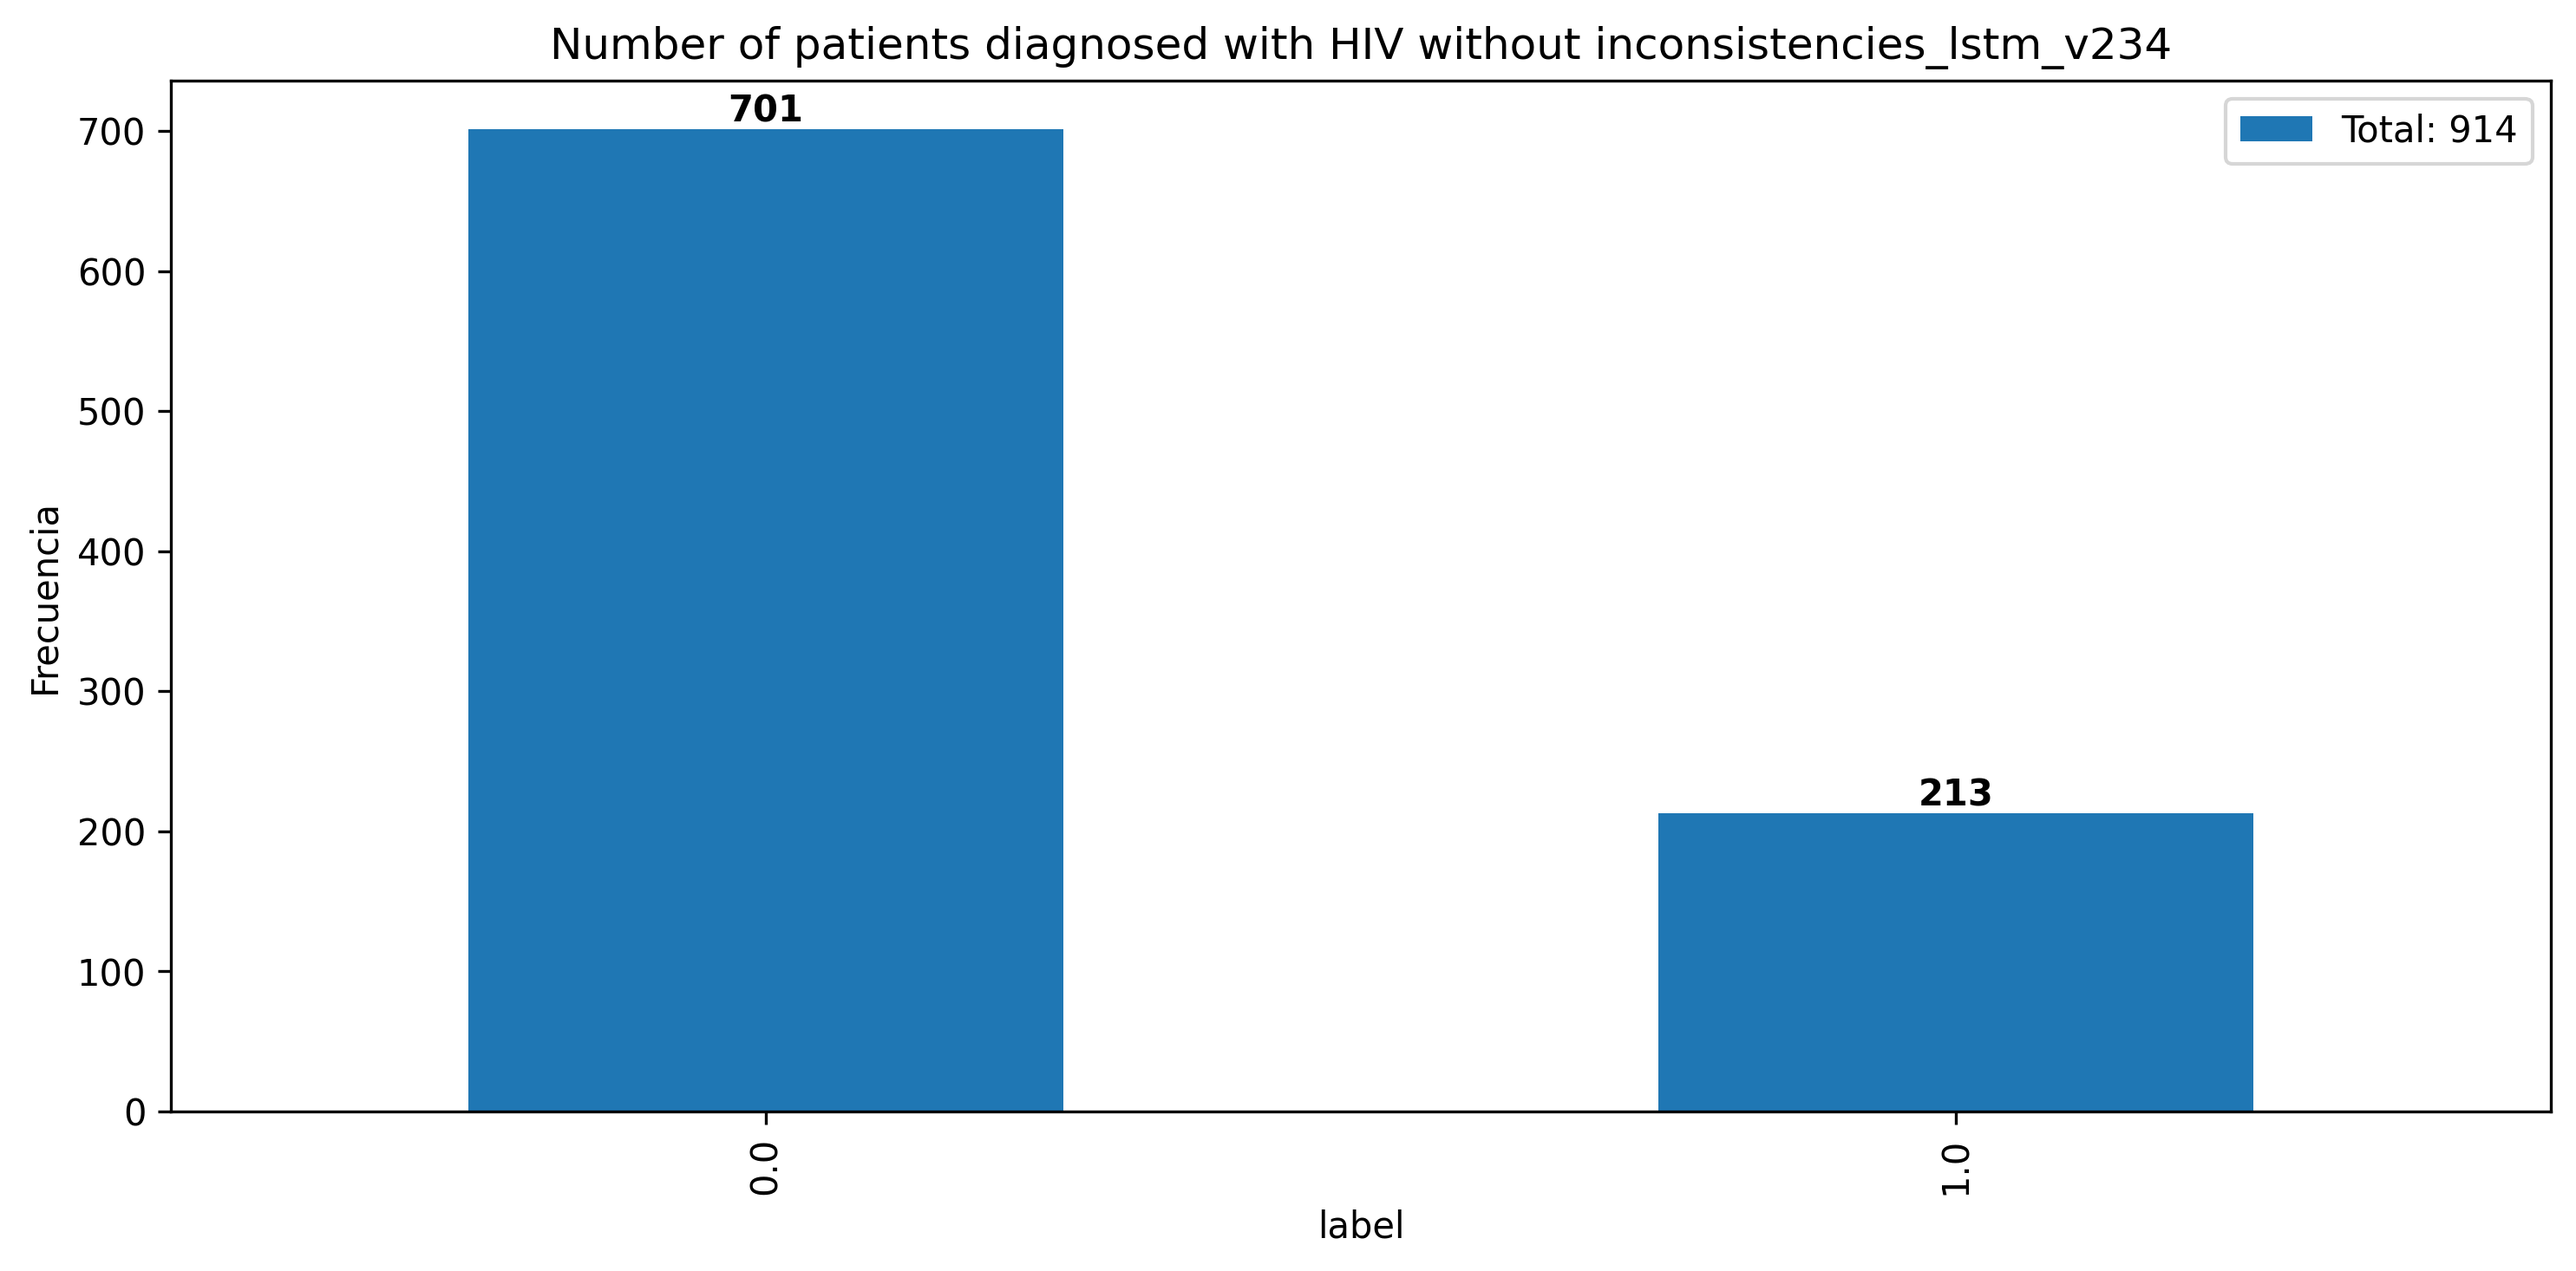
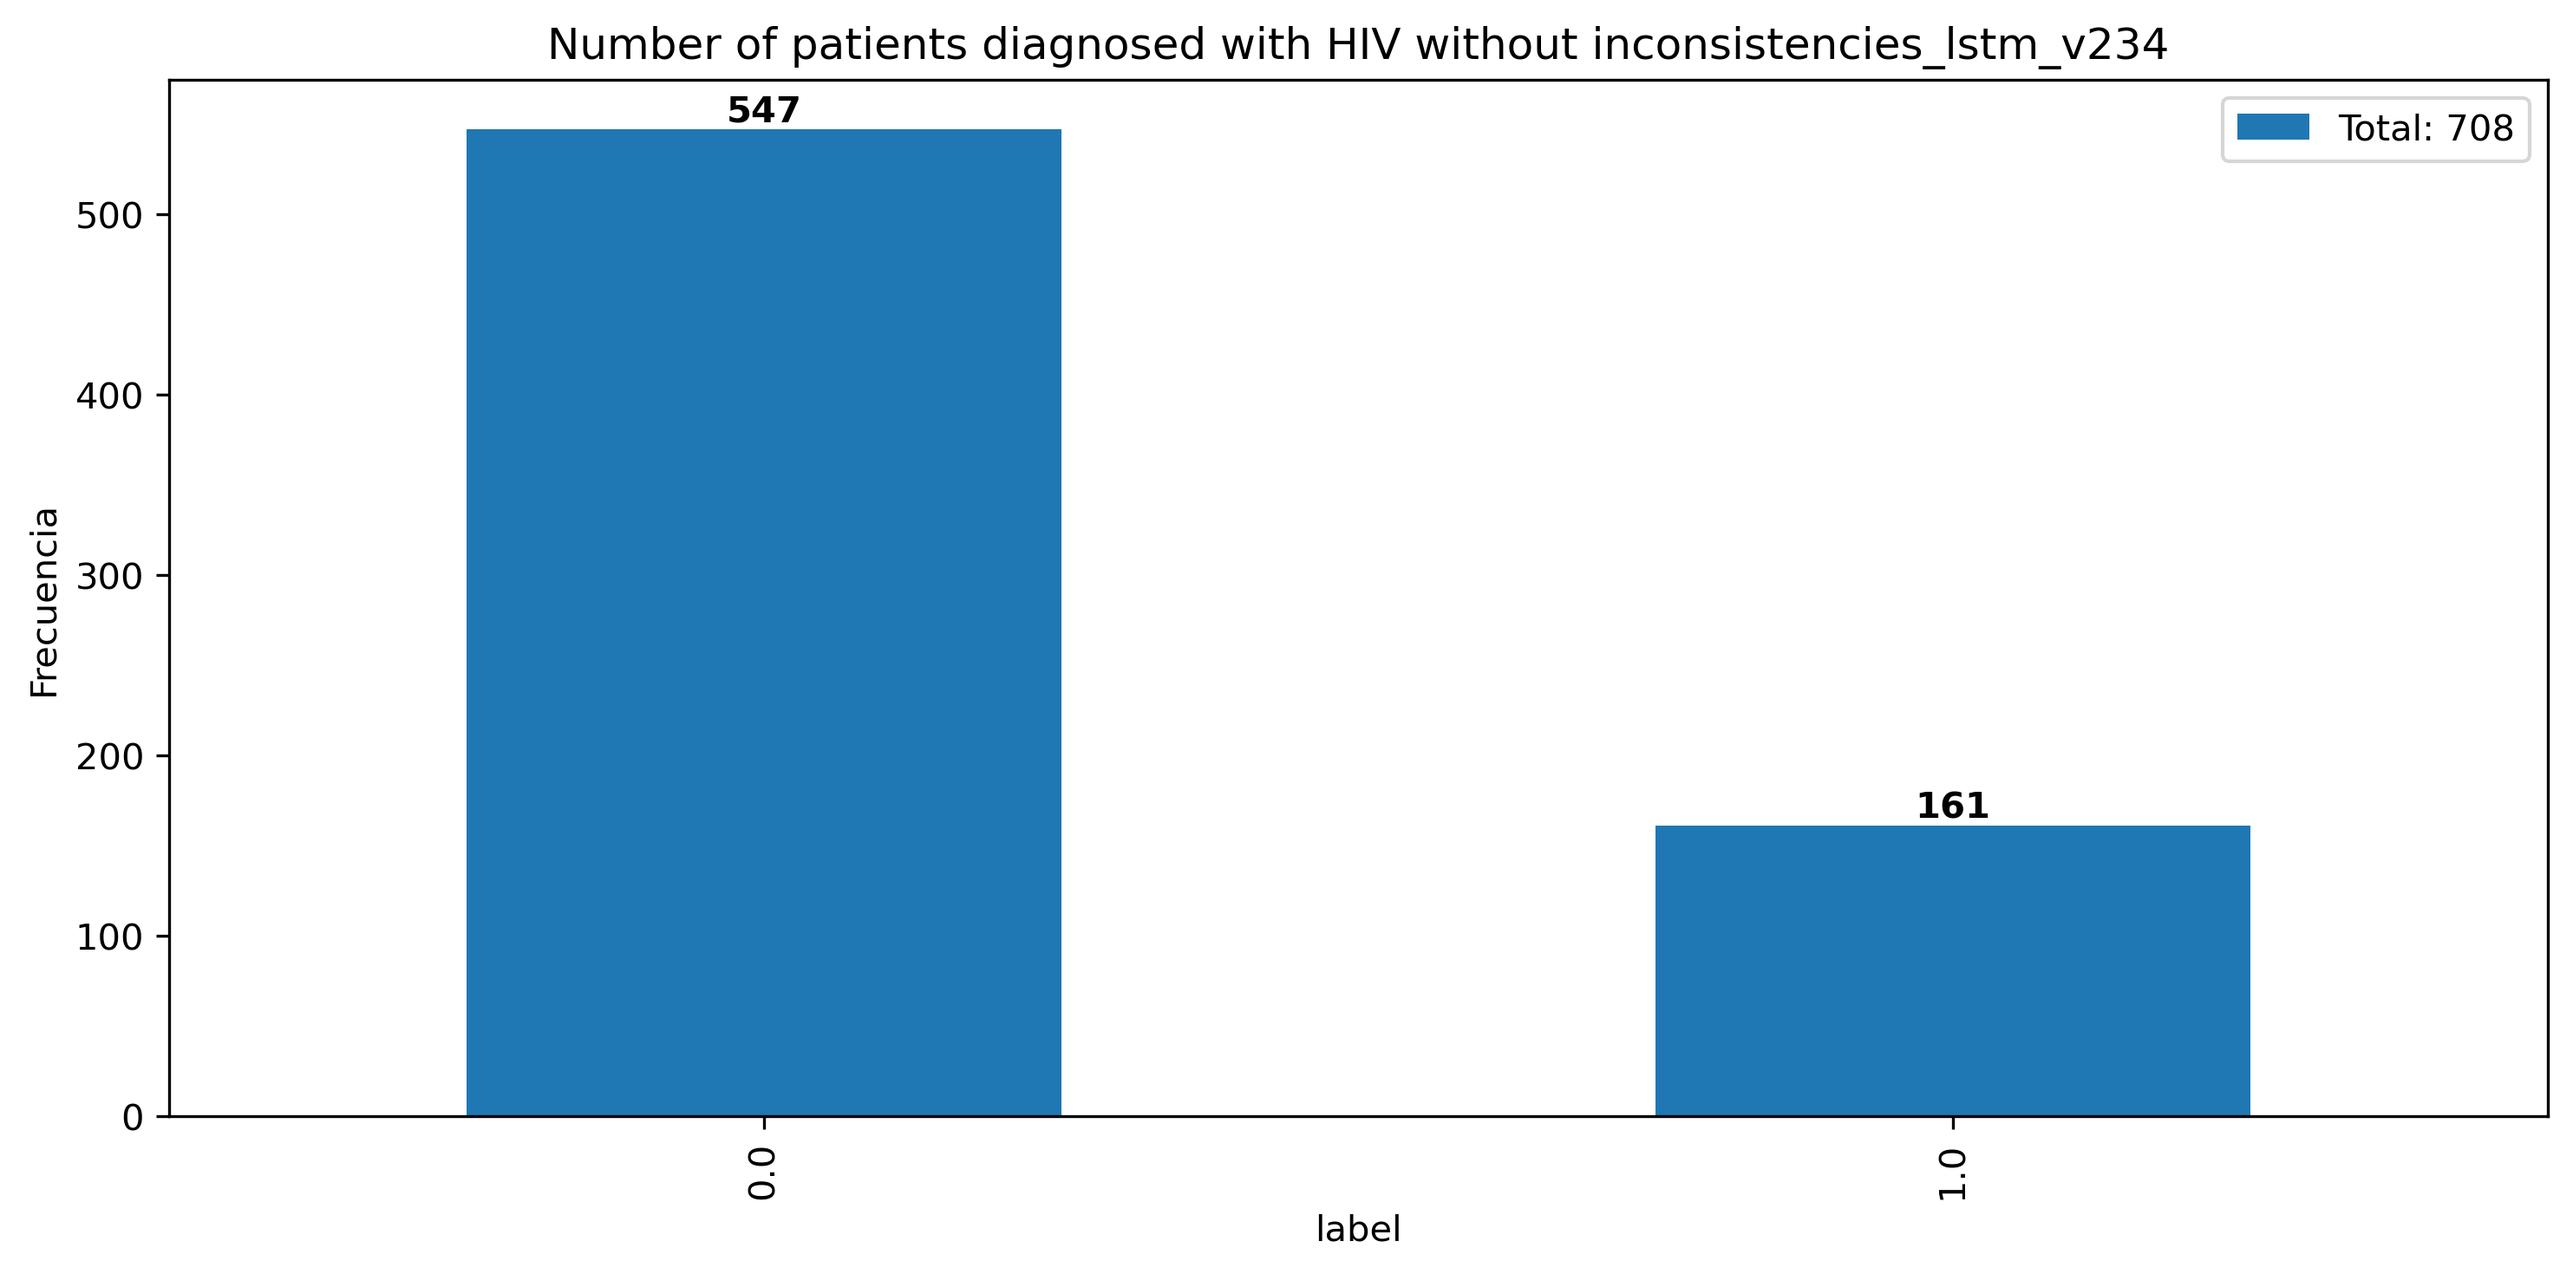
se graficaron los resultados y se modificaorn algunos archivos de tablero

diff --git a/tab_c.py b/tab_c.py
@@ -104,11 +104,11 @@ def imprimir_top_words(df, column="entities", top_n=20, exclude_words=None, save
 def main():
     # Load the 
     
-    model_version = "lstm_v234"
+    model_version = "lstm_v490"
     current_dir = os.getcwd()
     #print("Current directory:", current_dir)
     #data = utils_general_porpose.load_json(current_dir, "/concepts/clinical_concepts_20250404_171428.json")
-    data = utils_general_porpose.load_json(current_dir, "/concepts/clinical_concepts_20250701_043601.json")
+    data = utils_general_porpose.load_json(current_dir, "/concepts/clinical_concepts_20250704_115703.json")
     df = pd.DataFrame(data)
     print(df.info())
 
@@ -118,9 +118,9 @@ def main():
     tipo = "neg"
     imprimir_top_words(neg, column="entities", top_n=20, exclude_words={"enfermedad", "paciente"}, save_fig=True, fig_name="top_concepts_"+tipo+"_"+model_version+".png", tipo="neg")
 
-    incon = utils_general_porpose.load_json(current_dir, "/concepts/inconsistencies_20250701_043601.json")
-    incon = pd.DataFrame(incon)
-    print(incon.info())
+    #incon = utils_general_porpose.load_json(current_dir, "/concepts/inconsistencies_20250701_043601.json")
+    #incon = pd.DataFrame(incon)
+    #print(incon.info())
 
     #utils_reports.graficar_frecuencias_columna(incon, columna="label", save_fig=True, output_dir="g_consistency", fig_name="frecuencias_pacientes_inconsistencia_"+model_version+".png", titulo="Number of patients diagnosed with sleep apnea before polysomnography_"+model_version)
     utils_reports.graficar_frecuencias_columna(df, columna="label", save_fig=True, output_dir="g_consistency", fig_name="frecuencias_pacientes_sin_inconsistencias_"+model_version+".png", titulo="Number of patients diagnosed with HIV without inconsistencies_"+model_version)

diff --git a/tab_split.py b/tab_split.py
@@ -6,20 +6,21 @@ import matplotlib.pyplot as plt
 
 def main():
 # Load the dataset
+    model_version = "lstm_v490"
     current_dir = os.getcwd()
     #print("Current directory:", current_dir)    
-    d_train = utils_general_porpose.load_json(current_dir, "/train/train_prueba_train.json")
+    d_train = utils_general_porpose.load_json(current_dir, "/train/train_20250704_115703.json")
     df_train = pd.DataFrame(d_train)
     print(df_train.info())
     print(df_train["label"].value_counts())
 
-    #utils_reports.graficar_frecuencias_columna(df_train, columna="label", save_fig=True, output_dir="g_split", fig_name="frecuencias_pacientes_train.png", titulo="numero de pacientes train")
+    utils_reports.graficar_frecuencias_columna(df_train, columna="label", save_fig=True, output_dir="g_split", fig_name="frecuencias_pacientes_train_"+model_version+".png", titulo="number of patients in train "+model_version)
 
-    #d_test = utils_general_porpose.load_json(current_dir, "/test/test_20250701_043601.json")
-    #df_test = pd.DataFrame(d_test)
-    #print(df_test.info())
+    d_test = utils_general_porpose.load_json(current_dir, "/test/test_20250704_115703.json")
+    df_test = pd.DataFrame(d_test)
+    print(df_test.info())
 
-    #utils_reports.graficar_frecuencias_columna(df_test, columna="label", save_fig=True, output_dir="g_split", fig_name="frecuencias_pacientes_test.png", titulo="numero de pacientes test")
+    utils_reports.graficar_frecuencias_columna(df_test, columna="label", save_fig=True, output_dir="g_split", fig_name="frecuencias_pacientes_test_"+model_version+".png", titulo="numero de pacientes test "+model_version)
 
 if __name__ == "__main__":
     main()

diff --git a/tab_dt.py b/tab_dt.py
@@ -265,13 +265,13 @@ def distribucion_por_edad(df, column_to_split="label_apnea", column_to_plot="eda
 def main():
     # Cargar datos
 
-    file_path = "/home/pajaro/vih_phepipe/data_transformation/data_t_20250701_043601.csv"
+    file_path = "/home/pajaro/vih_phepipe/data_transformation/data_t_20250704_115703.csv"
     df = load_data(file_path)
     #df.info()
     df_explo = df[["fecha_diagnostico", "last_appointment", "prediction_window_start", "end_observation_window"]]
     print(df_explo.head())
 
-    model_version = "lstm_v234"
+    model_version = "lstm_v490"
 
     # Graficar eventos y guardar figura
     graficar_eventos_pacientes_df(df, n_pacientes=10, save_fig=True, fig_name="eventos_paciente_{}.png".format(model_version), model_version=model_version)

diff --git a/utils_reports.py b/utils_reports.py
@@ -26,7 +26,7 @@ def graficar_frecuencias_columna(df, columna, save_fig=False, output_dir="g_repo
         titulo = f"Frecuencia de valores en '{columna}'"
     plt.title(titulo)
     plt.xlabel(columna)
-    plt.ylabel("Frecuencia")
+    plt.ylabel("Frecuency")
     plt.tight_layout()
 
     # Agregar los números encima de las barras
